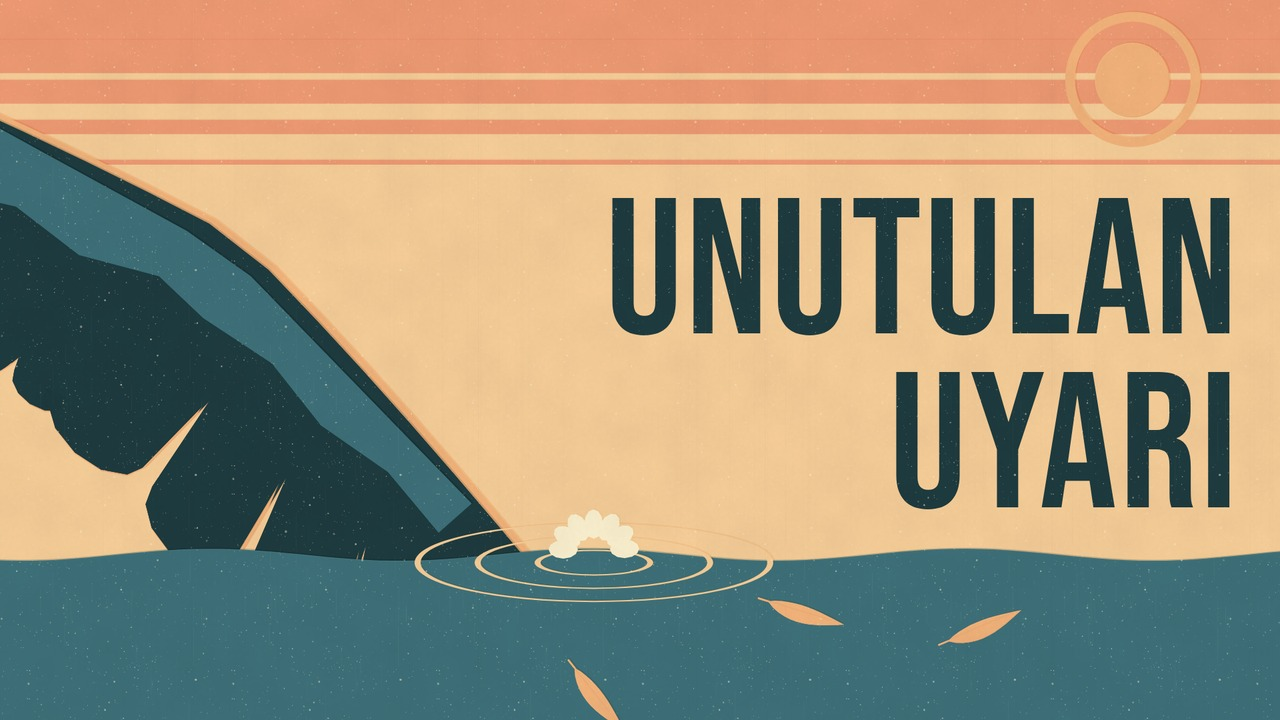
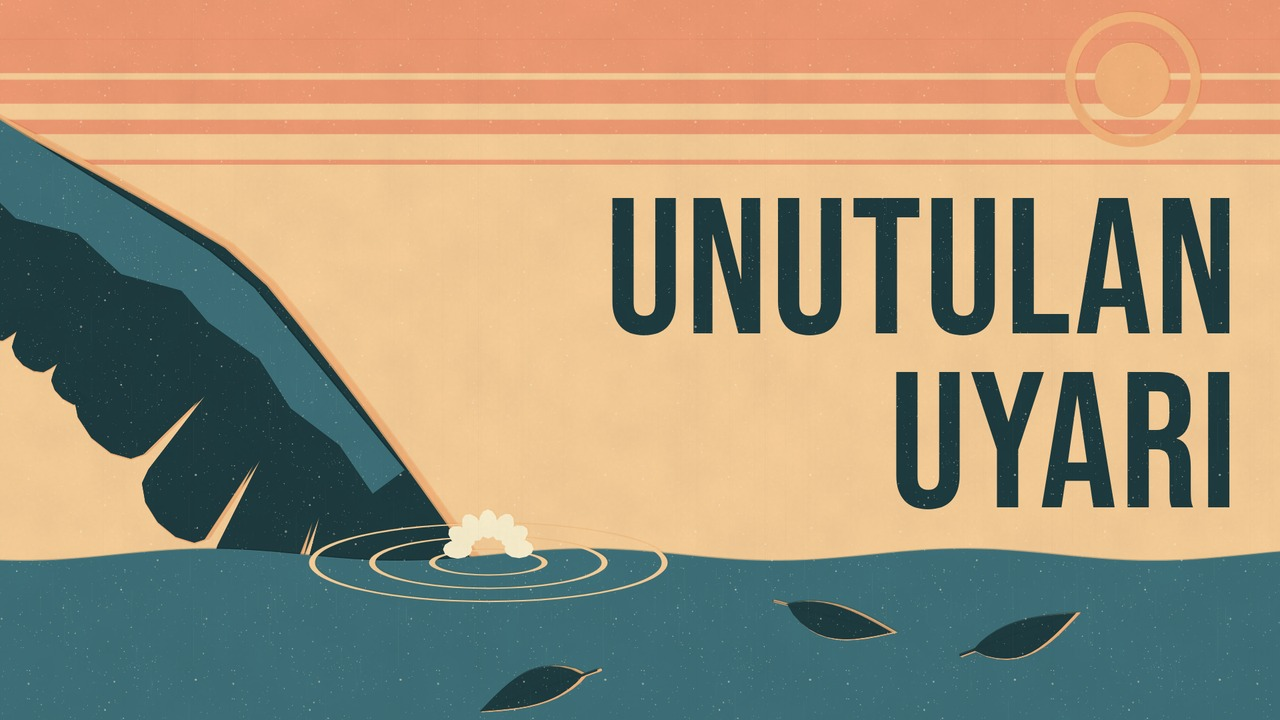
İkaros kapak tur 2–3: A ONAY (G 9,0, H 9,0), paket ONAY (9,5); B düzeltmeleri; yayin.md kart ve bitiş ekranı zamanı
Claude-Session: https://claude.ai/code/session_01DiDBPDUgEDR9Ke5GJpkNYW

diff --git a/ikaros/lib/sahne/kapak.js b/ikaros/lib/sahne/kapak.js
@@ -7,7 +7,7 @@ SCENES.kapakA = (ctx, t) => {
     pr.sky('sky2', 'sky1', 260, 470, 4);
     const s = FG.sunRings(400, 150, 110, 2); s.rings.forEach(q => pr.ink(q, 'lit', { sheen: 0 })); pr.ink(s.disk, '#FAF0CF');
     const J = FG.rig({ x: 1250, y: 1160, h: 215, f: -1, lean: .05, head: -.62, armN: [.1, 0], armF: [.1, 0] });
-    kanatliFigur(pr, J, { w: { ang: -.72, bend: .32, span: 600, chord: 240, side: 1, seed: 12 }, armInWing: false, kosum: true, kosumRole: 'sky2', light: [-1, -.7], litD: 4, farOff: [40, 10], faceFill: false, look: { curls: true, chest: true, face: true, belt: false } });
+    kanatliFigur(pr, J, { w: { ang: -.8, bend: .32, span: 540, chord: 230, side: 1, seed: 12 }, armInWing: false, kosum: true, kosumRole: 'sky2', light: [-1, -.7], litD: 4, farOff: [40, 10], faceFill: false, look: { curls: true, chest: true, face: true, belt: false } });
   }, { pal: 'SAFAK', sabit: true });
   kapakYazi(ctx, ['İKİ UYARI', 'VARDI'], 80, 720, 290, PAL.SAFAK.near);
 };
@@ -16,13 +16,13 @@ SCENES.kapakB = (ctx, t) => {
   baski(ctx, kSt(3, 6), null, pr => {
     pr.sky('sky2', 'sky1', 60, 300, 4);
     const s = FG.sunRings(1700, 120, 56, 1); s.rings.forEach(q => pr.ink(q, 'lit', { sheen: 0 })); pr.ink(s.disk, 'lit');
-    const wn = FG.wing({ root: [-240, 60], ang: .5, bend: .3, span: 1450, chord: 330, f: 1, seed: 21 });
+    const wn = FG.wing({ root: [-60, 140], ang: .56, bend: .32, span: 1080, chord: 300, f: 1, seed: 21 });
     litInk(pr, wn.all, 'lit', 'near', 1, -.6, 9); pr.ink(wn.cov, 'mid', { sheen: .1 });
     const yW = 830, sea = new Path2D(); sea.moveTo(-50, yW); for (let x = -50; x <= 1970; x += 20) sea.lineTo(x, yW + Math.sin(x / 90 + 1.2) * 9); sea.lineTo(1970, 1200); sea.lineTo(-50, 1200); sea.closePath(); pr.ink(sea, 'mid', { sheen: .2 });
     const tx = wn.tip[0];
     for (let k = 0; k < 3; k++) { const r = 80 + k * 90, ring = SK.ringPath(0, 0, r, r + 9), q = new Path2D(); q.addPath(ring, new DOMMatrix().translate(tx, yW + 14).scale(1, .22)); pr.ink(q, 'sky1', { sheen: 0, reg: 0 }); }
     const sp = new Path2D(); for (let i = 0; i < 7; i++) { const a = -Math.PI + i * .52; FG.ellipseInto(sp, tx + Math.cos(a) * 46, yW - 6 + Math.sin(a) * 38, 14, 22, a + Math.PI / 2, 12); } pr.ink(sp, '#FAF0CF', { sheen: 0, reg: 0 });
-    const tu = new Path2D(); [[1150, 900, .3], [1420, 960, -.4], [860, 1000, .9]].forEach(([x, y, a]) => a2_tuy(tu, x, y, 120, a, .14)); pr.ink(tu, 'lit', { sheen: .2 });
+    const tu = new Path2D(); [[1180, 905, .25], [1460, 975, -.35], [880, 1010, 2.8]].forEach(([x, y, a]) => a2_tuy(tu, x, y, 170, a, .2)); litInk(pr, tu, 'lit', 'near', 1, -.6, 5);
   }, { pal: 'SAFAK', sabit: true });
   kapakYazi(ctx, ['UNUTULAN', 'UYARI'], 1860, 500, 290, PAL.SAFAK.near, 'right');
 };

diff --git a/ikaros/tools/kapak_seti.py b/ikaros/tools/kapak_seti.py
@@ -35,7 +35,7 @@ others = [('Sisifos', os.path.join(ROOT, 'sisifos', 'kapak.png'), "Sisifos'u Ned
 for key, im in covers.items():
     W, item = 390, 201 + 86
     feed = Image.new('RGB', (W, 16 + item * 3), (15, 15, 15)); dr = ImageDraw.Draw(feed)
-    rows = [(others[0][1], others[0][2]), (None, "İkaros'a İki Uyarı Yapıldı, Herkes Birini Unuttu | Ovidius"), (others[1][1], others[1][2])]
+    rows = [(others[0][1], others[0][2]), (None, 'İkaros: "Güneşe Yaklaşma." Peki Öteki Uyarı Neydi?'), (others[1][1], others[1][2])]
     for i, (p, title) in enumerate(rows):
         y = 8 + i * item
         th = (im if p is None else Image.open(p).convert('RGB')).resize((358, 201), Image.LANCZOS)
@@ -51,6 +51,6 @@ print('test seti →', out)
 for key, im in covers.items():
     W, item = 390, 201 + 86
     feed = Image.new('RGB', (W, 16 + item), (255, 255, 255)); dr = ImageDraw.Draw(feed)
-    feed.paste(im.resize((358, 201), Image.LANCZOS), (16, 8)); dr.text((62, 218), "İkaros'a İki Uyarı Yapıldı, Herkes", fill=(15, 15, 15), font=font(15)); dr.text((62, 240), 'Birini Unuttu | Ovidius', fill=(15, 15, 15), font=font(15))
+    feed.paste(im.resize((358, 201), Image.LANCZOS), (16, 8)); dr.text((62, 218), 'İkaros: "Güneşe Yaklaşma." Peki', fill=(15, 15, 15), font=font(15)); dr.text((62, 240), 'Öteki Uyarı Neydi?', fill=(15, 15, 15), font=font(15))
     feed.save(os.path.join(out, f'{key}_akis_acik.png'))
     tv = Image.new('RGB', (1920, 1080), (20, 20, 20)); [tv.paste(im.resize((300, 169), Image.LANCZOS), (60 + i * 310, 300)) for i in range(6)]; tv.save(os.path.join(out, f'{key}_tv.jpg'), quality=85)

diff --git a/ikaros/kurul/kapak_tur2/G.md b/ikaros/kurul/kapak_tur2/G.md
@@ -1,0 +1,46 @@
+# İkaros: kapak ve paket, tur 2 (gerileme) — G (TO/paketleme + yayın paketi denetçisi)
+
+**Puan:** Kapak A **9,0** · Kapak B **9,0** · Paket **9,5** → **ONAY**
+
+Ölçütler tur 1 ile aynı.
+
+## İddiaların doğrulaması
+
+### 1. Yazı boyu: doğru
+Büyük harf yüksekliği iki kapakta da %18'in üzerinde.
+
+| Kapak | Satır | Dikey aralık (px) | Yükseklik | Oran |
+|---|---|---|---|---|
+| A | İKİ UYARI | 345–481 | 137 px | %19,0 |
+| A | VARDI | 519–653 | 135 px | %18,8 |
+| B | UNUTULAN | 198–334 | 137 px | %19,0 |
+| B | UYARI | 372–508 | 137 px | %19,0 |
+
+Yazı ile figür arasında ≥150 px boşluk var.
+
+### 2. Kapak B: doğru
+- Karenin en parlak noktası (247) temas noktasındaki sıçrama (556,556).
+- Güneş sönük (parlaklık 187, zemin 206) ve sağ üst köşede.
+- Halkalar ve sıçrama 168 px'te seçiliyor. Tek odak sağlandı.
+
+### 3. Kapak A: büyük ölçüde doğru
+- En parlak nokta somon banttaki güneş (212,145). Birincil tüyler seçiliyor, kayış koyulaştı, göz küçüldü.
+- **Kanat "tamamen kadrajda" değil:** ön kenar sağ kenarda y 213–341 arasında kesiliyor. Kusur sayılmaz; yalnız iddia doğru değil.
+
+### 4–5. Başlık, sabit yorum, kartlar, damgalar: doğru
+- Başlık 50 karakter. "Herkes" iddiası yok, cevabı vermiyor, "Neden" kalıbı kullanılmamış.
+- Sabit yorum cevabı vermiyor.
+- 0:48 kartı kaldırıldı.
+- Bölüm damgaları cümle başlarıyla uyumlu: 0:15 / 0:47 / 2:23 / 3:00.
+- `#YunanMitolojisi` ilk üç etikette yer alıyor.
+
+## Kalanlar (engelleyici değil)
+1. **Kart zamanı.** `yayin.md` kartı "~4:50 ('Ama önce uçtu'dan sonra)" diye veriyor. G06 cümlesi 4:46'da başlıyor, "Ama önce uçtu" ~4:55'te bitiyor (G07 4:56). Kart **4:56**'ya konmalı; 4:50'de cümlenin ortasına düşer.
+2. **Akış taklidi eski başlığı gösteriyor.** `set/*_akis*.png` hâlâ "…Herkes Birini Unuttu | Ovidius" başlığıyla. Yeni başlık 50 karakter ve iki satıra sığar; yine de kayıt için bir kez yeniden üretilsin.
+3. **B'deki serbest tüyler yaprak gibi okunuyor.** Somon renkli, söğüt yaprağı biçiminde (parlaklık 185). Sapı ve asimetrik bayrağı belirginleşirse tüy olarak okunur. İsteğe bağlı.
+4. **Bitiş ekranı zamanı.** Video 5:55,2 sürüyor; YouTube son 20 sn'yi 5:35–5:55 diye verir. `yayin.md`'deki "~5:34–5:54" yalnız not düzeltmesi.
+
+## En emin olmadığım nokta
+Değişmedi: sakin afiş üslubu, dramatik "düşen İkaros" kapaklarına karşı geniş göz atma testinde TO'yu taşır mı?
+
+Test sonucunda tahminim A'nın kazanması. 72. saatte TO %2'nin altındaysa düşüş anı kapağı (eriyen tüyler) hazır olsun.

diff --git a/ikaros/kurul/kapak_tur2/H.md b/ikaros/kurul/kapak_tur2/H.md
@@ -1,0 +1,32 @@
+# Kapak, tur 2 (gerileme): H (sanat + görsel hassasiyet)
+
+**A: 9,0/10 ONAY. B: 7,0/10 RED. Veto: yok.**
+
+## İddiaların doğrulanması (1280×720'de ölçüldü)
+1. **Yazı: doğru.**
+   - A: büyük harf 137 ve 135 px (%19); yazı x 56–588, y 316–653.
+   - B: büyük harf 137 px; yazı x 613–1228, y 198–508.
+2. **A: büyük ölçüde doğru.**
+   - En parlak bölge güneş (x 195–337, y 29–171). Güneş-bant karşıtlığı 1,9:1 (önce zeminle 1,19:1).
+   - Halka alt kenarı ~268, "İ" noktaları 316: 48 px boşluk var.
+   - Kanat artık kanat okunuyor: ayrık birincil tüyler var, 168 px'te de seçiliyor.
+   - Yazı ile figür arası ~150 px. Rozet temiz.
+   - **Kısmen yanlış:** "uç kadraj içinde" değil. Ön kenar ve en dıştaki tüy uçları sağ kenara değip çıkıyor (x 1280, y ~210–338).
+3. **Göz ve ağız: doğru.**
+   - Göz 'lit' tonunda (232,189,155), ~59 px; göz-baş karşıtlığı 7:1. Ağız çıkıntısı azalmış.
+   - Karikatür okuması kalktı.
+   - Kayış mercan ve yerinde.
+4. **B: doğru.**
+   - Güneş sağ üstte, yazıya değmiyor.
+   - Krem sıçrama en parlak öğe (deniz üstünde 4,8:1) ve tek odak.
+   - Yazının altı ile deniz arası ~40 px.
+
+## Kalanlar
+1. **B, kanat (geçen turun 5. maddesi uygulanmadı):** kanat değişmedi ve hâlâ muz yaprağı ya da yüzgeç gibi okunuyor. Ten rengi, mızrak biçimli üç "tüy" deniz üstünde yaprak gibi okunuyor; bu, yaprak okumasını güçlendiriyor.
+   - Kanadın arka kenarına A'daki pul sıraları ve 4–5 ayrık birincil tüy eklenmeli.
+   - Serbest tüyler gerçek tüye benzemeli: koyu sap (quill) vane'den taşmalı, vane asimetrik olmalı, 1–2 yarık bulunmalı.
+   - Bu tüyler kanat renklerinden (`mid`/`near` gövde, `lit` kenar) yapılmalı ki kanattan koptukları okunsun.
+2. **A, küçük:** kanadın ucunu kadraja al (`ang −0,72 → −0,8` ya da `span 560`). Bunun için yeni tur gerekmez.
+3. **A, isteğe bağlı:** göz 168 px'te neredeyse kayboluyor; bakış yönünü baş eğimi ve burun taşıyor, bu yeterli. İstenirse göz yarıçapı %20 büyütülebilir; ton aynı kalmalı.
+
+**Hassasiyet:** hale, haç, çıplaklık, mutlak iddia ve karikatür sorunu yok.

diff --git a/ikaros/KURUL.md b/ikaros/KURUL.md
@@ -138,3 +138,20 @@ Ek (Milton dersi): önden simetrik, kolları açık figür haç gibi okunur. Uç
 - 17 kar/sn'yi aşan 5 altyazı (en yüksek 19,6): anlatım hızından kaynaklanıyor. `srt.py` okuma hızı kuralı uygulanıyor; daha fazlası metni bölmeyi gerektirir.
 - "Ve uçtular." 0,65 sn: aynı cümlenin devamı hemen başlıyor.
 - Satır bölme kusurları küçük; sonraki videoda `srt.py`'ye özel ad + edat bölme kuralı eklenecek.
+
+## Kapı 5: Kapak ve yayın paketi
+| Üye | Tur 1 | Tur 2 | Tur 3 |
+|---|---|---|---|
+| G (TO/paketleme, yayın paketi) | A 8,0 · B 7,0 · paket 7,5 RED | **A 9,0 · B 9,0 · paket 9,5 ONAY** | – |
+| H (sanat, görsel hassasiyet) | A 7,5 · B 6,0 RED | **A 9,0 ONAY** · B 7,0 RED | B (bekleniyor) |
+
+**Uygulananlar:**
+- Kapak yazısı Bebas 290 px: büyük harf ~136 px / 720 (%19).
+- A: güneş somon bantta, en parlak nokta; kanat kısa ve kadrajda, ayrık birincil tüyler; kayış mercan.
+- B: güneş küçük ve sönük; temas noktasında krem sıçrama odakta; suda kanat renginde saplı tüyler; kanat küçüldü.
+- **Karikatür okuması (H'nin uyarısı; engelleyici değildi):** koyu siluet + bembeyaz göz + kıvırcık yuvarlak baş + çıkık ağız birleşimi. Göz küçüldü ve kâğıt beyazı değil 'lit' tonunda; dudak profili sadeleşti. Değişiklik film genelinde uygulandı, film yeniden render edildi.
+- **Paket:**
+  - Başlık `İkaros: "Güneşe Yaklaşma." Peki Öteki Uyarı Neydi?` ("Herkes" mutlak iddiası kalktı).
+  - Sabit yorum cevabı vermiyor.
+  - Tek kart 4:56'da (Milton); erken Sisifos kartı kaldırıldı.
+  - Bölüm damgaları yeni çizelgeden; #YunanMitolojisi eklendi.

diff --git a/ikaros/yayin.md b/ikaros/yayin.md
@@ -6,8 +6,8 @@
 4. **Kitle:** "Hayır, çocuklara özel değil" (kurul D: çocuk güvenliği işareti).
 5. **Değiştirilmiş/sentetik içerik:** gerçekçi bir kişi ya da olay göstermiyor; animasyon. Ses yapay zekâ: açıklamada yazılı. YouTube'un o günkü sorusunu oku; gerçekçi içerik değilse "Hayır".
 6. **Altyazı:** Altyazılar → Dosya yükle → "Zamanlamalı" → `ikaros.tr.srt` (Türkçe).
-7. **Bitiş ekranı (son 20 sn, ~5:34–5:54):** sol yarıda başlık ve kanatlı figür var; sağdaki koyu çerçeveye **Milton videosu** (Kayıp Cennet), altına **abone ol** öğesi. Sağ alttaki rozet alanı boş.
-8. **Kartlar:** yalnız bir kart, ~4:50'de ("Ama önce uçtu"dan sonra) → Milton videosu. İzleyiciyi ilk dakikada filmden çıkaran kart konmaz (kurul G).
+7. **Bitiş ekranı (son 20 sn, 5:35–5:55):** sol yarıda başlık ve kanatlı figür var; sağdaki koyu çerçeveye **Milton videosu** (Kayıp Cennet), altına **abone ol** öğesi. Sağ alttaki rozet alanı boş.
+8. **Kartlar:** yalnız bir kart, 4:56'da ("Ama önce uçtu" bittikten sonra) → Milton videosu. İzleyiciyi ilk dakikada filmden çıkaran kart konmaz (kurul G).
 9. **Oynatma listesi:** "Mitler ve Felsefe".
 10. **Sabit yorum:** `youtube.md` → "Sabit yorum".
 11. **Zamanlama:** kanalın önceki yayın saatleri (akşam 20:00–21:00) iyi çalıştı.
